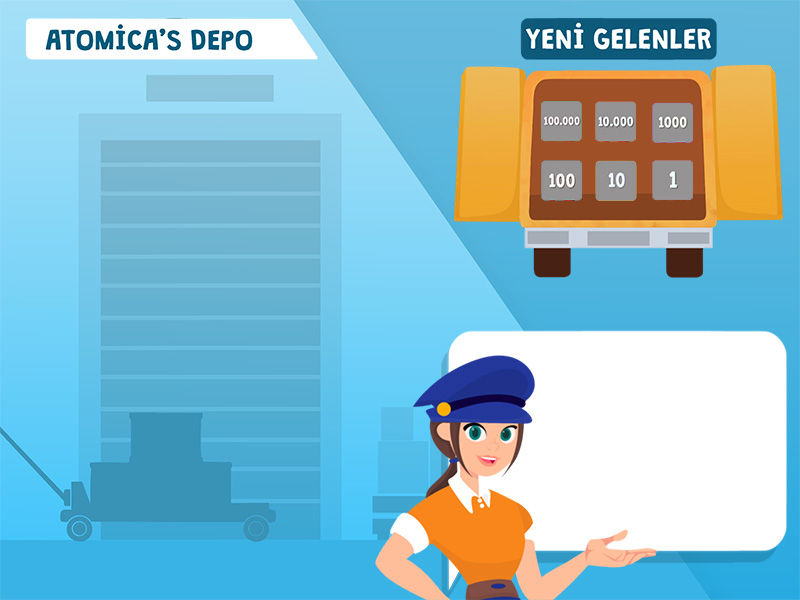
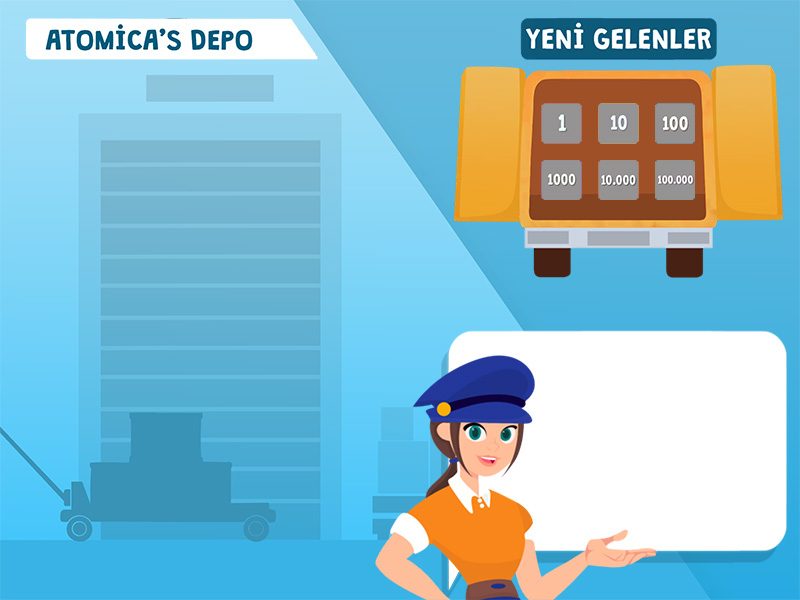
Fixed styling of boxes with conditional backgroundImage property according to their value

Changed region(s): [[0.6562, 0.15, 0.875, 0.24], [0.6875, 0.27, 0.875, 0.33]]

diff --git a/app/components/UI/InGame/Box.tsx b/app/components/UI/InGame/Box.tsx
@@ -2,6 +2,13 @@ import React, { useState, memo } from 'react'
 
 import classes from './Box.module.css'
 
+import box1Image from '@/public/assets/images/boxes/box1.png'
+import box10Image from '@/public/assets/images/boxes/box10.png'
+import box100Image from '@/public/assets/images/boxes/box100.png'
+import box1000Image from '@/public/assets/images/boxes/box1000.png'
+import box10000Image from '@/public/assets/images/boxes/box10000.png'
+import box100000Image from '@/public/assets/images/boxes/box100000.png'
+
 export enum EBoxType {
   BRONZE = '1',
   SILVER = '10',
@@ -23,26 +30,33 @@ const Box = (props: TBoxProps) => {
   // const [clicksLeft, setClicksLeft] = useState<number>(props.clicksLeft || 0)
   const clicksLeft = props.clicksLeft ? parseInt(props.clicksLeft) : 0
 
-  let backgroundColor: string
+  let backgroundImage
+  // let backgroundColor
 
   switch (props.type) {
     case EBoxType.BRONZE:
-      backgroundColor = '#a05822'
+      backgroundImage = `url(${box1Image.src})`
+      // backgroundColor = '#a05822'
       break
     case EBoxType.SILVER:
-      backgroundColor = '#bec7c7'
+      backgroundImage = `url(${box10Image.src})`
+      // backgroundColor = '#bec7c7'
       break
     case EBoxType.GOLD:
-      backgroundColor = '#d6c372'
+      backgroundImage = `url(${box100Image.src})`
+      // backgroundColor = '#d6c372'
       break
     case EBoxType.DIAMOND:
-      backgroundColor = '#effffe'
+      backgroundImage = `url(${box1000Image.src})`
+      // backgroundColor = '#effffe'
       break
     case EBoxType.PLATINIUM:
-      backgroundColor = '#e5e4e2'
+      backgroundImage = `url(${box10000Image.src})`
+      // backgroundColor = '#e5e4e2'
       break
+    // TODO: 100000
     default:
-      backgroundColor = 'none'
+      backgroundImage = 'unset'
       break
   }
 
@@ -67,13 +81,11 @@ const Box = (props: TBoxProps) => {
   return (
     <button
       className={classes.box}
-      style={{ backgroundColor }}
+      style={{ backgroundImage }}
       onClick={boxClickHandler}
       disabled={clicksLeft === 0 ? true : undefined} // TODO: check & log conditions
       id={props.id}
-    >
-      <span>{props.type.toString()}</span>
-    </button>
+    />
   )
 }
 

diff --git a/app/components/Addition/Addition.module.css b/app/components/Addition/Addition.module.css
@@ -35,9 +35,16 @@
   height: 65px;
 }
 
-/* .rightbar .top .active-boxes {
-
-} */
+.rightbar .top .active-boxes {
+  display: grid;
+  width: 157px;
+  height: 100px;
+  grid-template-rows: repeat(2, 41px);
+  grid-template-columns: repeat(3, 41px);
+  grid-gap: 16.67px;
+  margin-left: 140.5px;
+  margin-top: 38px;
+}
 
 
 

diff --git a/app/components/UI/InGame/Box.module.css b/app/components/UI/InGame/Box.module.css
@@ -1,8 +1,9 @@
 .box {
   /* background: #000; */
-  width: 40px;
-  height: 40px;
+  width: 41px;
+  height: 41px;
+  border-width: 0;
+  padding: 0;
+  background-color: unset;
 }
-.box span {
-  color: #000;
-}
+
